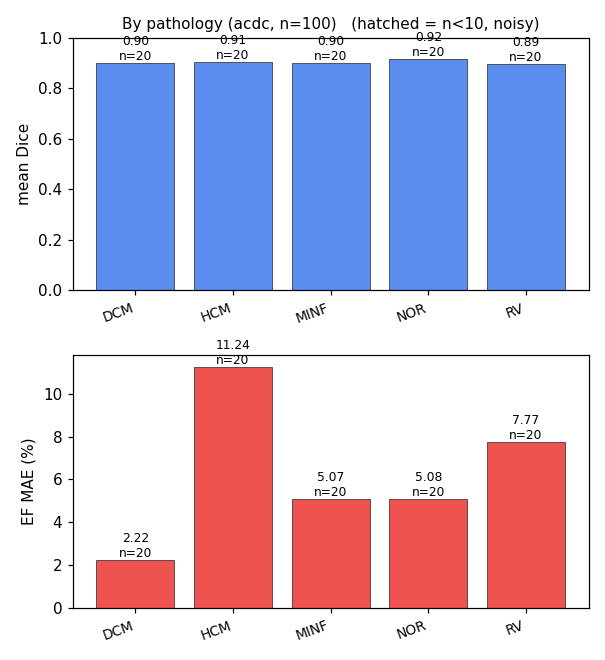
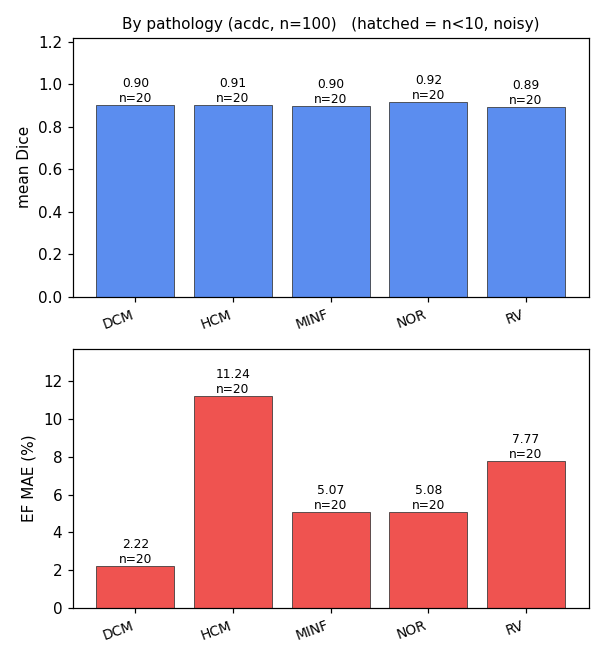
eval: add gtEF context to stratified EF + fix plot headroom + honest reading
EF MAE isn't comparable across groups with different cavity sizes (ratio: a fixed volume
error moves EF more when the cavity is small). Add per-group gtEF mean so MAE is read in
context. Reinterpret: MAE largely tracks EF magnitude (DCM low-EF robust) = denominator
artifact, NOT worse masks (Dice flat). HCM is the genuine outlier (same EF as NOR, 2x error
= small-cavity sensitivity). Vendor EF gap partly confounded by GE's higher-EF cohort; GE's
lower Dice is the cleaner (n=11) signal. Plot: y-headroom so value/n labels clear the frame.
READMEs corrected.

diff --git a/cardioseg/evaluation/distribution.py b/cardioseg/evaluation/distribution.py
@@ -175,18 +175,22 @@ def strata_table(rows, key) -> dict:
     if not g:
         return {}
     print(f"\n=== stratified by {key} ===")
-    print(f"  {'group':12} {'n':>4}  {'RV':>5} {'myo':>5} {'LVc':>5} {'mean':>5}  {'EF MAE':>7} {'bias':>6}")
+    # GT-EF mean given alongside MAE: EF is a ratio, so absolute MAE isn't comparable across groups
+    # with different cavity sizes (small-cavity HCM amplifies a fixed volume error). Dice is the
+    # range-independent segmentation-quality metric; read MAE *with* the GT-EF context.
+    print(f"  {'group':12} {'n':>4}  {'RV':>5} {'myo':>5} {'LVc':>5} {'mean':>5}  {'gtEF':>5} {'EF MAE':>7} {'bias':>6}")
     out = {}
     for grp, rs in g.items():
         d = {cl: np.mean([r["dice"][cl] for r in rs if "dice" in r]) for cl in CLASSES}
         diff = np.array([r["ef_pred"] - r["ef_gt"] for r in rs])
+        gt_ef = float(np.mean([r["ef_gt"] for r in rs]))
         mae, bias = float(np.mean(np.abs(diff))), float(np.mean(diff))
         mean_d = float(np.mean(list(d.values())))
         flag = "  (small n)" if len(rs) < SMALL_N else ""
         print(f"  {grp:12} {len(rs):>4}  {d[1]:.3f} {d[2]:.3f} {d[3]:.3f} {mean_d:.3f}  "
-              f"{mae:>6.1f}% {bias:>+5.1f}%{flag}")
+              f"{gt_ef:>4.0f}% {mae:>6.1f}% {bias:>+5.1f}%{flag}")
         out[grp] = {"n": len(rs), "dice": {CLASSES[c][0]: float(d[c]) for c in CLASSES},
-                    "dice_mean": mean_d, "ef_mae": mae, "ef_bias": bias}
+                    "dice_mean": mean_d, "gt_ef_mean": gt_ef, "ef_mae": mae, "ef_bias": bias}
     return out
 
 
@@ -204,18 +208,18 @@ def plot_strata(rows, key, out: Path, label: str):
 
     fig, (a1, a2) = plt.subplots(2, 1, figsize=(max(5, 1.1 * len(groups)), 6))
     x = np.arange(len(groups))
-    for ax, vals, ylab, col in ((a1, mean_dice, "mean Dice", "#5b8def"),
-                                (a2, ef_mae, "EF MAE (%)", "#ef5350")):
+    for ax, vals, ylab, col, top in ((a1, mean_dice, "mean Dice", "#5b8def", 1.0),
+                                     (a2, ef_mae, "EF MAE (%)", "#ef5350", max(ef_mae))):
         bars = ax.bar(x, vals, color=col, edgecolor="#333", linewidth=0.5)
         for b, sm in zip(bars, small):
             if sm:
                 b.set_hatch("///"); b.set_alpha(0.55)
+        ax.set_ylim(0, top * 1.22)   # headroom so the value/n labels clear the frame + title
         for xi, v, n in zip(x, vals, ns):
             ax.text(xi, v, f"{v:.2f}\nn={n}", ha="center", va="bottom", fontsize=8)
         ax.set_ylabel(ylab)
         ax.set_xticks(x); ax.set_xticklabels(groups, rotation=20, ha="right", fontsize=9)
     a1.set_title(f"By {key}{label}   (hatched = n<{SMALL_N}, noisy)", fontsize=10)
-    a1.set_ylim(0, 1)
     fig.tight_layout()
     fig.savefig(out, dpi=110)
     plt.close(fig)

diff --git a/cardioseg/README.md b/cardioseg/README.md
@@ -85,32 +85,40 @@ aug + largest-CC + TTA lift the flagship to 0.90 Dice / 6.3% EF (top table).*
 Pooled numbers average over the failures. Broken down (same model, same eval; `distribution.py`
 emits these + `stratified.json`):
 
-**By pathology** (held-out ACDC) — Dice is flat (~0.90 everywhere) but **EF error is disease-specific**:
+**By pathology** (held-out ACDC). Dice is flat (~0.90 everywhere) → **masks aren't worse anywhere**;
+the EF spread is a *ratio* effect. `gtEF` is given because EF MAE isn't comparable across groups
+with different cavity sizes — a fixed volume error moves EF more when the cavity is small:
 
-| pathology | mean Dice | EF MAE | EF bias |
-|---|---|---|---|
-| DCM | 0.90 | **2.2%** | −1.0% |
-| MINF | 0.90 | 5.1% | −4.1% |
-| NOR | 0.92 | 5.1% | −4.8% |
-| RV | 0.89 | 7.8% | −7.1% |
-| **HCM** | 0.91 | **11.2%** | −10.9% |
+| pathology | gtEF | mean Dice | EF MAE | EF bias |
+|---|---|---|---|---|
+| DCM | 18% | 0.90 | **2.2%** | −1.0% |
+| MINF | 31% | 0.90 | 5.1% | −4.1% |
+| RV | 55% | 0.89 | 7.8% | −7.1% |
+| NOR | 60% | 0.92 | 5.1% | −4.8% |
+| **HCM** | 68% | 0.91 | **11.2%** | −10.9% |
 
-HCM (thick myocardium → hardest cavity) is the EF failure — invisible in Dice, glaring in EF.
+Two readings: (1) MAE **largely tracks EF magnitude** — low-EF DCM is robust (big dilated cavity,
+forgiving denominator), high-EF hearts harder. A denominator artifact, *not* worse segmentation.
+(2) **HCM is the genuine outlier** — same EF range as NOR (~60–68%) yet *double* the error: small,
+thick-walled, papillary-dense cavities amplify a fixed volume error. So HCM is a real EF-sensitivity
+failure mode; the rest is mostly the ratio's range-dependence.
 
-![EF error by pathology — uniform Dice, HCM EF MAE spikes](docs/media/strata_pathology_acdc.png)
+![EF error by pathology — Dice flat, HCM EF MAE spikes (small-cavity sensitivity)](docs/media/strata_pathology_acdc.png)
 
-**By vendor** (in-domain M&M-2 val) — the model is weakest on the **minority** vendor:
+**By vendor** (in-domain M&M-2 val) — murkier, read with care:
 
-| vendor | n | mean Dice | EF MAE |
-|---|---|---|---|
-| Siemens | 43 | 0.898 | 8.2% |
-| Philips | 18 | 0.893 | 8.6% |
-| **GE** | 11 | **0.879** | **12.0%** |
+| vendor | n | gtEF | mean Dice | EF MAE |
+|---|---|---|---|---|
+| Siemens | 43 | 48% | 0.898 | 8.2% |
+| Philips | 18 | 58% | 0.893 | 8.6% |
+| **GE** | 11 | 61% | **0.879** | 12.0% |
 
-GE (fewest training subjects) trails — the imbalance signal that motivates harmonization. Small n
-(11), so directional not definitive; still, it's the measured case *for* `qfz`, not an assumption.
+GE's **Dice is lowest** (0.879, range-independent → a real signal, though n=11). Its higher EF MAE
+is **partly confounded** by a higher-EF cohort (gtEF 61% vs Siemens 48%), so don't read it as pure
+vendor effect. Net: a weak-but-directional minority-vendor signal — the measured (caveated) case
+*for* `qfz`, not an assumption.
 
-![Dice + EF MAE by vendor — GE (minority) trails](docs/media/strata_vendor_mnm2.png)
+![Dice + EF MAE by vendor — GE (minority) lowest Dice](docs/media/strata_vendor_mnm2.png)
 
 Published column = context, not a trophy: even multi-vendor, this is "competent on public
 benchmarks," not clinical-grade. M&M-2 is 3 vendors / 1.5–3T — broader than ACDC, still not the

diff --git a/README.md b/README.md
@@ -46,12 +46,15 @@ plot splits the error in two: a systematic **−5.6% bias** (the curve sits left
 correctable) and a **spread** (tightened by the work below). EF is a *ratio* of two volumes,
 so it magnifies per-frame segmentation error — the masks are good (Dice 0.90), the derived number isn't.
 
-**Where it fails — stratified.** Pooled numbers hide it: Dice is uniform across pathologies (~0.90),
-but **EF error concentrates on HCM** (MAE 11% vs 2% for DCM) — thick-myocardium hearts where the
-cavity is hardest. And the model is weakest on the **minority vendor** (GE, EF MAE 12% vs Siemens
-8%) — the multi-vendor-imbalance signal that motivates harmonization. Same eval, broken down:
+**Where it fails — stratified (read carefully).** Dice is uniform across pathologies (~0.90), so
+**the masks aren't worse anywhere** — the EF spread is a *ratio* effect, not a segmentation one.
+EF MAE largely tracks **EF magnitude** (DCM, low-EF dilated ventricles, MAE 2%; high-EF hearts
+harder) — a denominator artifact, not worse masks. **HCM is the genuine outlier**: same EF range as
+NOR (~60–68%) but **double the error** (11% vs 5%) — small thick-walled cavities amplify a fixed
+volume error. (The vendor breakdown is murkier — GE has the lowest Dice but its higher EF MAE is
+partly a higher-EF cohort + n=11; see [cardioseg/](cardioseg/).)
 
-![EF error by pathology — uniform Dice, HCM EF MAE spikes](cardioseg/docs/media/strata_pathology_acdc.png)
+![EF error by pathology — Dice flat, HCM EF MAE spikes (small-cavity sensitivity)](cardioseg/docs/media/strata_pathology_acdc.png)
 
 Paths from here, roughly in effort order:
 - ✅ **Largest-CC postprocessing** (applied) — dropping stray false-positive islands cut EF MAE